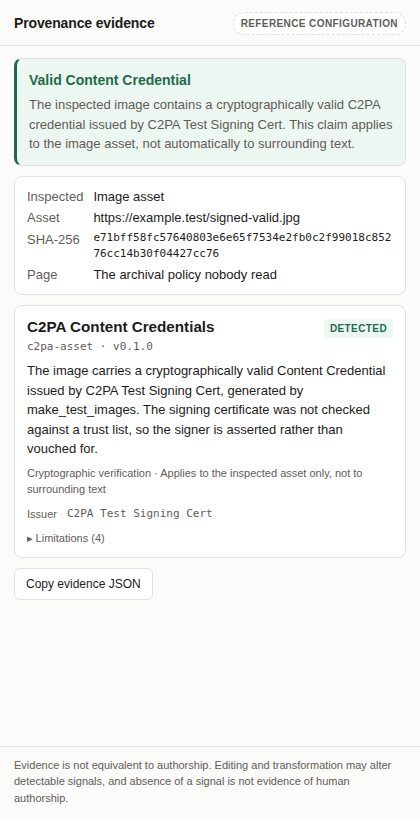
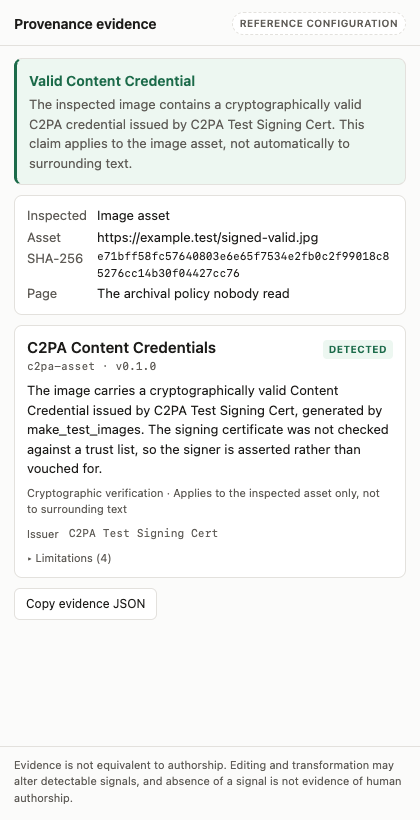
Update docs and screenshots for the long fixture
README numbers and the panel screenshots re-derive from the new
1000-token generation record: the demo table, the honest-limitations
note on demo passage length, and the reference-agreement tolerance.
Also notes that GPT-2 prose visibly drifts topic over a run this long
with end-of-text suppressed.

diff --git a/README.md b/README.md
@@ -56,7 +56,7 @@ Open `fixtures/page/article.html` in Chrome. Then:
 
 | Do this | You should see |
 | --- | --- |
-| Select the whole watermarked passage → **Inspect provenance** | **Watermark signal detected**, score ≈ 0.606 against a threshold of ≈ 0.517 over 624 scored positions |
+| Select the whole watermarked passage → **Inspect provenance** | **Watermark signal detected**, score ≈ 0.609 against a threshold of ≈ 0.510 over 1,985 scored positions |
 | Select the unwatermarked control passage | **No supported provenance signal detected** — and a note that this is not evidence of human authorship |
 | Select one short sentence | **Not enough evidence** — never a negative |
 | Right-click the signed image | **Valid Content Credential**, issuer `C2PA Test Signing Cert`, scoped to the asset |
@@ -142,12 +142,13 @@ another**, because they test different schemes.
   like a pseudorandom function. The reference implementation's own README states its hash offers
   no cryptographic guarantees. The significance threshold is set at 1e-6 rather than a
   conventional 0.05 to buy margin against that gap.
-- **The demo passage is 476 words**, not the 800–1,500 the product brief imagines, because the
-  pinned generation record contains 320-token samples. Longer fixtures need a local generation
-  run — see [`fixtures/generated/README.md`](fixtures/generated/README.md), which is wired so
-  that dropping the record in place re-points the fixtures and the tests with no code edits.
-  GPT-2's 1,024-token context caps a single continuation near 760 words, so more than that means
-  concatenating several samples.
+- **The demo passage is 1,639 words**, generated locally from a 1,000-token GPT-2 run — see
+  [`fixtures/generated/README.md`](fixtures/generated/README.md). That's above the 800–1,500 the
+  product brief imagines, because GPT-2's 1,024-token context caps a single continuation near
+  760 words, so reaching this length means concatenating two samples. Prose quality degrades over
+  a run this long with end-of-text suppressed: it stays coherent for a few paragraphs, then
+  drifts topic. That's a property of GPT-2 at this length, not of the watermark or the detector;
+  a modern model would need a matching JS tokenizer to fix, which is out of scope here.
 - **C2PA validation reports `Valid`, not `Trusted`.** The signature verifies; no trust list is
   consulted. Anyone can sign an asset with a certificate they generated themselves, and the
   panel says so.
@@ -174,7 +175,7 @@ Test coverage maps onto the claims:
   positive at threshold, scope discipline, and that no result ever claims authorship.
 - `fixtures/fixtures.test.ts` — the fixture matrix against the checked-in files, plus a
   differential check that our mean g-value reproduces the Python reference implementation's own
-  score for the same sample (currently within 0.0007), and a digest check that no fixture has
+  score for the same sample (currently within 0.001), and a digest check that no fixture has
   been edited by hand.
 
 ### End-to-end
